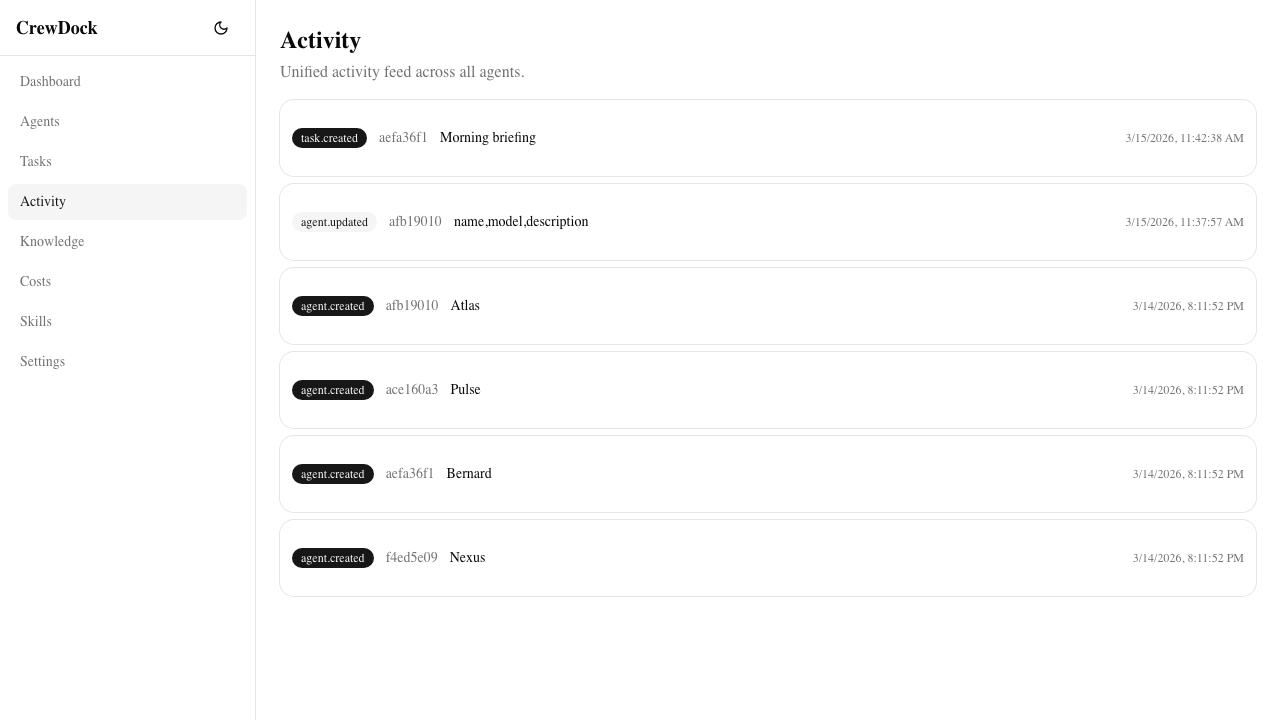
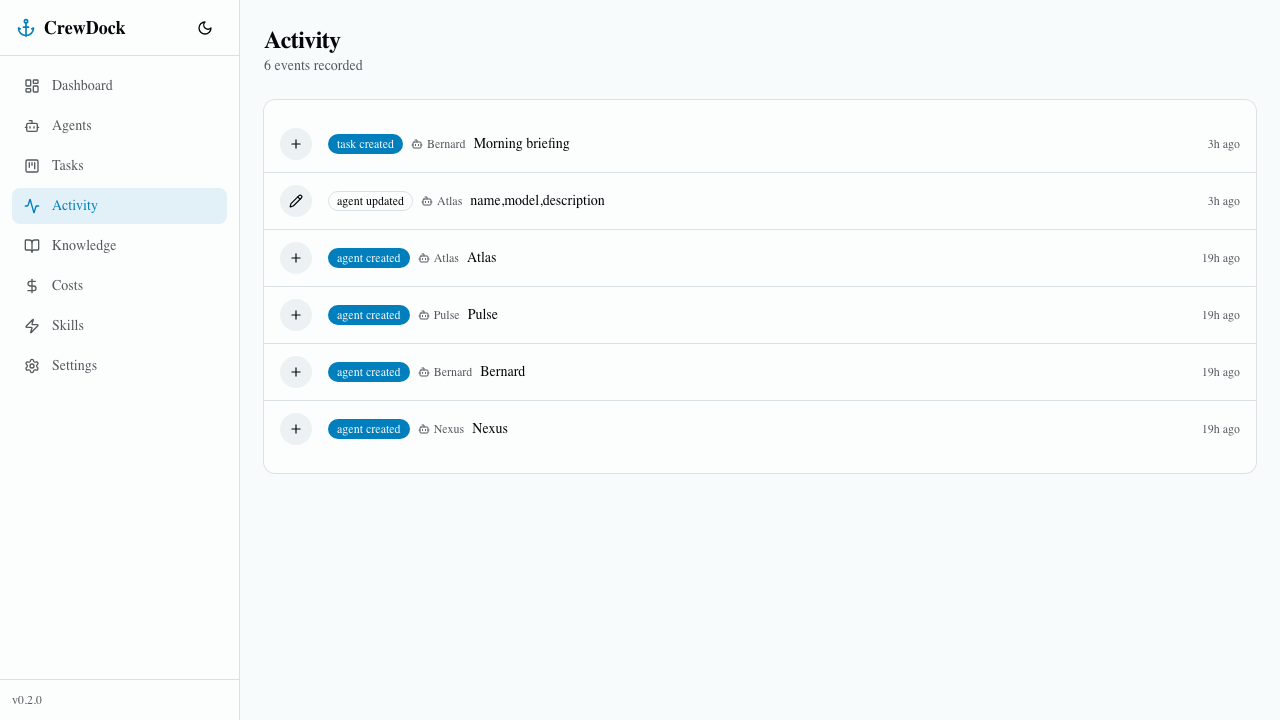
release: v0.3.0 — design system, agent chat, drag-and-drop
Branded theme with cyan/maritime palette, premium dark mode,
agent chat interface, drag-and-drop kanban, shared UI components,
and updated screenshots.

See CHANGELOG.md for full details.

diff --git a/frontend/src/components/organisms/sidebar.tsx b/frontend/src/components/organisms/sidebar.tsx
@@ -110,7 +110,7 @@ export function Sidebar() {
         </div>
         <NavLinks pathname={pathname} />
         <div className="border-t p-3">
-          <p className="text-xs text-muted-foreground">v0.2.0</p>
+          <p className="text-xs text-muted-foreground">v0.3.0</p>
         </div>
       </aside>
 

diff --git a/backend/app/core/config.py b/backend/app/core/config.py
@@ -10,7 +10,7 @@ class Settings(BaseSettings):
 
     # App
     app_name: str = "CrewDock"
-    app_version: str = "0.2.0"
+    app_version: str = "0.3.0"
     debug: bool = False
     cors_origins: str = "http://localhost:3001"
 

diff --git a/CHANGELOG.md b/CHANGELOG.md
@@ -7,6 +7,34 @@ Versioning follows [Semantic Versioning](https://semver.org/).
 
 ---
 
+## [0.3.0] - 2026-03-15
+
+### Added
+- **Design system overhaul** — branded cyan/maritime color palette, not generic gray
+- **Agent chat interface** — send messages to agents directly from dashboard
+- **Drag-and-drop Kanban** — move tasks between columns with state machine validation
+- **Shared UI components** — PageHeader, StatCard, EmptyState, SectionLabel
+- **Lucide icons** across all pages and navigation
+- **Agent color system** — unique colored avatars per agent
+- **Section labels** — uppercase tracking headers for visual hierarchy
+
+### Changed
+- Dark mode now uses navy-tinted backgrounds (not pure black)
+- Light mode backgrounds have subtle blue tint (not pure white)
+- Primary color changed to dock-blue cyan
+- Card radius tightened to 0.5rem (more professional)
+- Global smooth transitions (150ms) on all interactive elements
+- Settings page redesigned with gateway status and plugin cards
+- Skills page redesigned with skill icons and agent labels
+- All pages use consistent PageHeader pattern
+- Removed all inline duplicated components
+
+### Fixed
+- Removed unused imports across pages
+- Consistent status dot colors using shared utility
+
+---
+
 ## [0.2.0] - 2026-03-15
 
 ### Added
